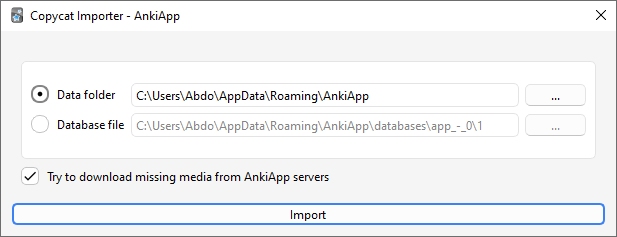
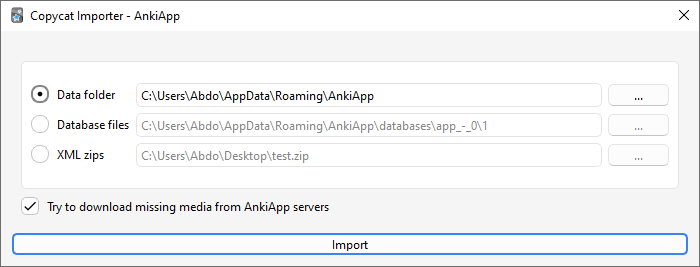
Update docs

diff --git a/ankiweb_page.html b/ankiweb_page.html
@@ -2,19 +2,27 @@
 
 <b>AnkiApp</b>
 
-<p>It appears that AnkiApp started to <a href="https://www.reddit.com/r/Anki/comments/ocbhry/help_to_bypass_ankiapps_paywall_for_deck_export/">paywall the deck export feature</a>.
-So you can no longer export a zip of your cards <a href="https://www.ankiapp.com/support/solutions/ddcf01b0/can-i-export-my-flashcards-from-ankiapp-/">without paying</a>.</p>
-<p>This add-on salvages the cards from the SQLite database and was inspired by the Reddit post linked above. It can import cards, decks, note types, and media files.</p>
 <p><img src="https://raw.githubusercontent.com/abdnh/anki-copycat-importer/master/images/ankiapp.png" alt="AnkiApp Importer"></p>
+<p>Go to <i>Tools &gt; Copycat Importer &gt; Import from AnkiApp</i>.</p>
+<p>Several methods to import AnkiApp decks are supported. All methods generally support importing cards, decks, note types, and media files:</p>
 
-<b>Usage</b>
+<b>Data folder</b>
 
-<ul>
-<li>Make sure all your AnkiApp decks are downloaded before using the add-on. For that, go to AnkiApp, click on each of your decks, then click on the Download button at the bottom if it's shown.</li>
-<li>Run Anki and go to <i>Tools &gt; Copycat Importer &gt; Import from AnkiApp</i>. The add-on tries to detect AnkiApp's data folder on your system automatically. If you see the "Data folder" field already populated, you can go ahead and click Import. You can also specify a different folder location, or a single SQLite database file by checking the "Database file" option (only recommened if you don't have access to the whole data folder for some reason, as the add-on may need other files in the data folder to properly import notetypes).</li>
-</ul>
+<p>If you have AnkiApp installed on your computer, it's recommended to try this option first. The add-on tries to detect the location of your AnkiApp data and fill in the Data folder field with its path. You need to make sure all your AnkiApp decks are downloaded locally before using this option. For that, go to AnkiApp, click on each of your decks, then click on the Download button at the bottom if it's shown.</p>
 
-<b>Notes &amp; Known Issues</b>
+<b>Database files</b>
+
+<p>If you only have SQLite database files instead of a full data folder (such as the files stored in the databases subfolder of the data folder), you can use this option.
+This is only recommened if you don't have access to the whole data folder for some reason, as the add-on may need other files in the data folder to properly import notetypes.</p>
+
+<b>XML zips</b>
+
+<p>If the Export button under the three-dot menu in AnkiApp is enabled for your account, you can use it to export a zip file and use this option to import the deck.</p>
+<img alt="AnkiApp's Export button" src="https://raw.githubusercontent.com/abdnh/anki-copycat-importer/master/images/ankiapp-export.png" width="600">
+
+<p>If the button is greyed out, see <a href="https://forums.ankiweb.net/t/copycat-importer-ankiapp-ankipro/16734/214?u=abdo">this</a> for a workaround.</p>
+
+<b>Known Issues</b>
 
 <ul>
 <li>Study progress is not imported.</li>
@@ -26,12 +34,9 @@ To prevent that, the add-on fills all empty fields with a non-breaking space.</l
 <b>AnkiPro</b>
 
 <p><img src="https://raw.githubusercontent.com/abdnh/anki-copycat-importer/master/images/ankipro.png" alt="AnkiPro Importer"></p>
-
-<b>Usage</b>
-
 <p>The add-on works by downloading your decks from the AnkiPro site, so it needs your email and password. Go to <i>Tools &gt; Copycat Importer &gt; Import from AnkiPro</i> and enter your account details.</p>
 
-<b>Notes &amp; Known Issues</b>
+<b>Known Issues</b>
 
 <ul>
 <li>Importing of <a href="https://ankipro.net/library">library decks</a> is not supported. Since they are simply scraped from AnkiWeb, you can search and download the decks from <a href="https://ankiweb.net/shared/decks">AnkiWeb</a> instead.</li>

diff --git a/README.md b/README.md
@@ -4,19 +4,30 @@ An [Anki](https://apps.ankiweb.net/) add-on to import decks from copycat apps su
 
 ## AnkiApp
 
-It appears that AnkiApp started to [paywall the deck export feature](https://www.reddit.com/r/Anki/comments/ocbhry/help_to_bypass_ankiapps_paywall_for_deck_export/).
-So you can no longer export a zip of your cards [without paying](https://www.ankiapp.com/support/solutions/ddcf01b0/can-i-export-my-flashcards-from-ankiapp-/).
-
-This add-on salvages the cards from the SQLite database and was inspired by the Reddit post linked above. It can import cards, decks, note types, and media files.
-
 ![AnkiApp Importer](images/ankiapp.png)
 
-### Usage
+Go to _Tools > Copycat Importer > Import from AnkiApp_.
 
--   Make sure all your AnkiApp decks are downloaded before using the add-on. For that, go to AnkiApp, click on each of your decks, then click on the Download button at the bottom if it's shown.
--   Run Anki and go to _Tools > Copycat Importer > Import from AnkiApp_. The add-on tries to detect AnkiApp's data folder on your system automatically. If you see the "Data folder" field already populated, you can go ahead and click Import. You can also specify a different folder location, or a single SQLite database file by checking the "Database file" option (only recommened if you don't have access to the whole data folder for some reason, as the add-on may need other files in the data folder to properly import notetypes).
+Several methods to import AnkiApp decks are supported. All methods generally support importing cards, decks, note types, and media files:
 
-### Notes & Known Issues
+### Data folder
+
+If you have AnkiApp installed on your computer, it's recommended to try this option first. The add-on tries to detect the location of your AnkiApp data and fill in the Data folder field with its path. You need to make sure all your AnkiApp decks are downloaded locally before using this option. For that, go to AnkiApp, click on each of your decks, then click on the Download button at the bottom if it's shown.
+
+### Database files
+
+If you only have SQLite database files instead of a full data folder (such as the files stored in the databases subfolder of the data folder), you can use this option.
+This is only recommened if you don't have access to the whole data folder for some reason, as the add-on may need other files in the data folder to properly import notetypes.
+
+### XML zips
+
+If the Export button under the three-dot menu in AnkiApp is enabled for your account, you can use it to export a zip file and use this option to import the deck.
+
+<img alt="AnkiApp's Export button" src="images/ankiapp-export.png" width="600">
+
+If the button is greyed out, see [this](https://forums.ankiweb.net/t/copycat-importer-ankiapp-ankipro/16734/214?u=abdo) for a workaround.
+
+### Known Issues
 
 -   Study progress is not imported.
 -   AnkiApp doesn't seem to keep any info on the positions of note type fields, so an empty field will cause
@@ -27,11 +38,9 @@ This add-on salvages the cards from the SQLite database and was inspired by the 
 
 ![AnkiPro Importer](images/ankipro.png)
 
-### Usage
-
 The add-on works by downloading your decks from the AnkiPro site, so it needs your email and password. Go to _Tools > Copycat Importer > Import from AnkiPro_ and enter your account details.
 
-### Notes & Known Issues
+### Known Issues
 
 -   Importing of [library decks](https://ankipro.net/library) is not supported. Since they are simply scraped from AnkiWeb, you can search and download the decks from [AnkiWeb](https://ankiweb.net/shared/decks) instead.
 -   Importing of study progress and deck options is not supported yet.

diff --git a/CHANGELOG.md b/CHANGELOG.md
@@ -5,6 +5,16 @@ All notable changes to this project will be documented in this file.
 The format is based on [Keep a Changelog](https://keepachangelog.com/en/1.0.0/),
 and this project adheres to [Semantic Versioning](https://semver.org/spec/v2.0.0.html).
 
+## [2.1.0] - 2023-11-10
+
+### Added
+
+-   Added support for importing AnkiApp's XML zips.
+
+### Fixed
+
+-   Do not abort import when unrecognized media types are found.
+
 ## [2.0.0] - 2023-11-05
 
 ### Added
@@ -137,6 +147,7 @@ and this project adheres to [Semantic Versioning](https://semver.org/spec/v2.0.0
 
 Initial release
 
+[2.1.0]: https://github.com/abdnh/anki-copycat-importer/compare/2.0.0...2.1.0
 [2.0.0]: https://github.com/abdnh/anki-copycat-importer/compare/1.6.0...2.0.0
 [1.6.0]: https://github.com/abdnh/anki-copycat-importer/compare/1.5.8...1.6.0
 [1.5.8]: https://github.com/abdnh/anki-copycat-importer/compare/1.5.7...1.5.8
